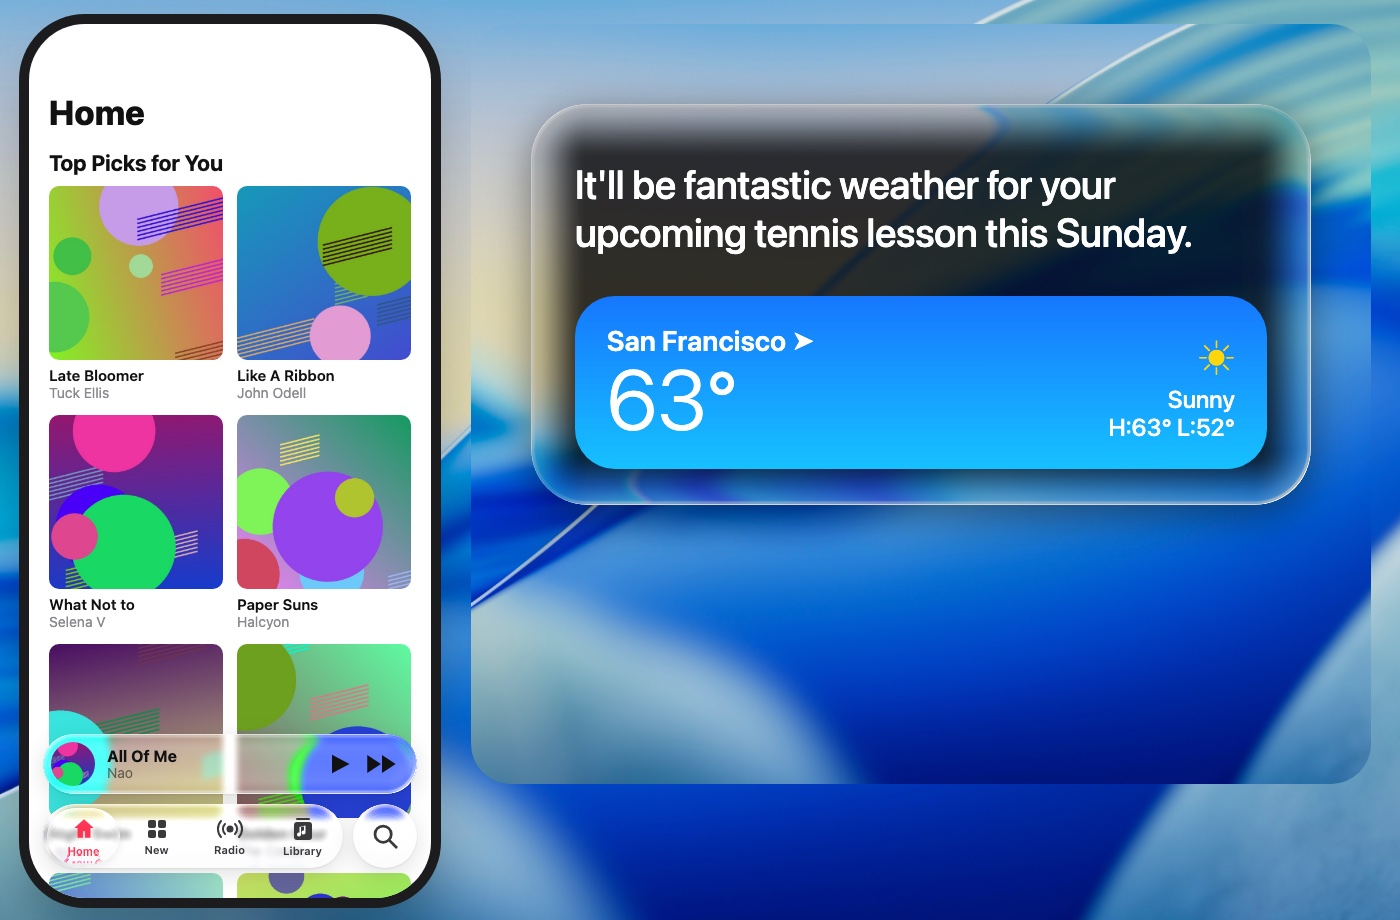
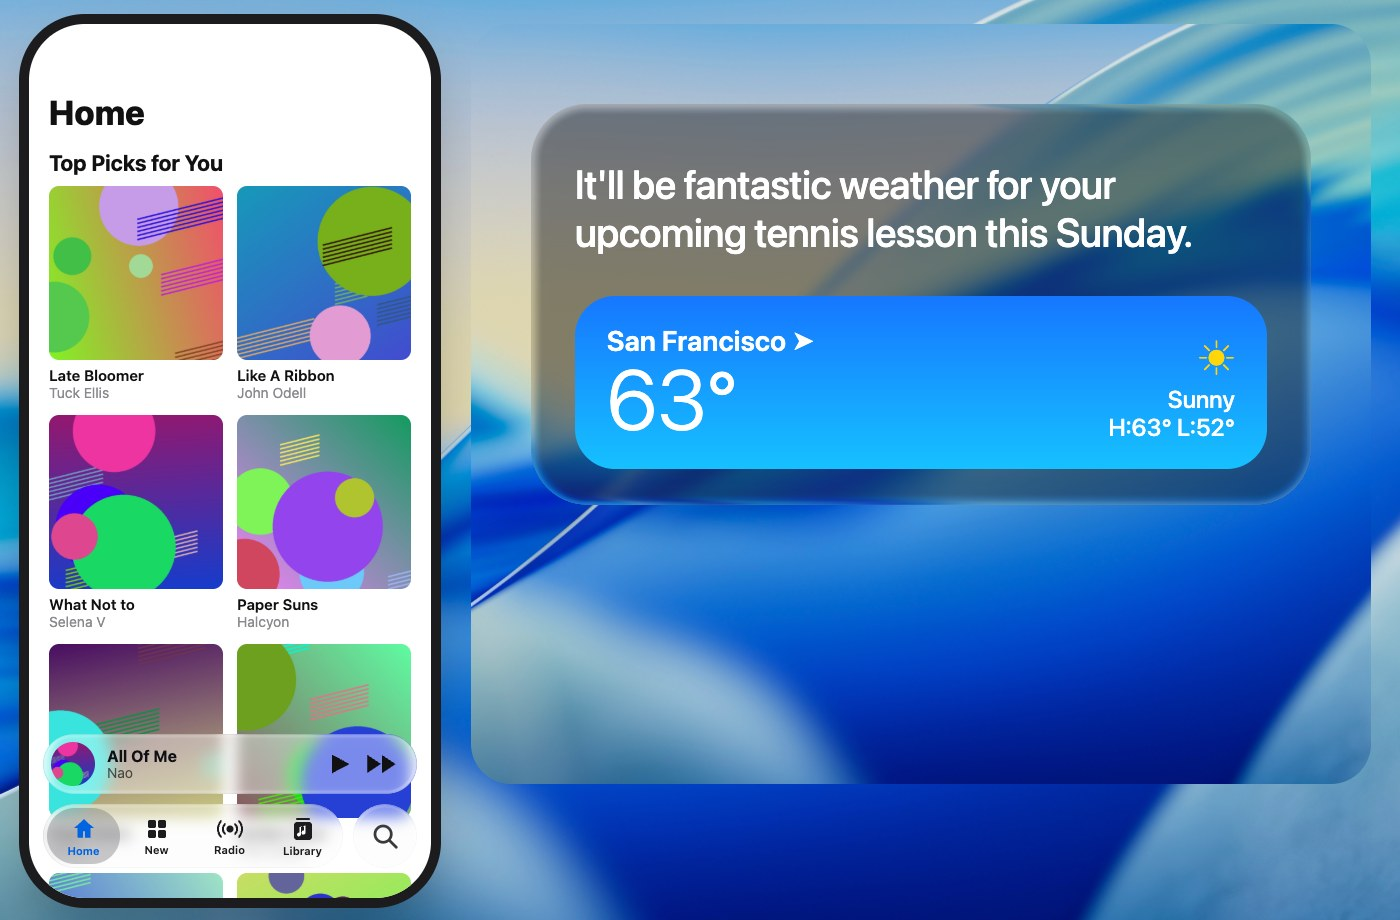
docs: bring the readme and its images up to date
Describes regular and clear, the tab bar and the bar material, corrects the
size and examples, and replaces the screenshots with renders of the current
demo.

Changed region(s): [[0.3686, 0.0913, 0.9521, 0.5783], [0.0307, 0.7913, 0.3071, 0.9435]]

diff --git a/README.md b/README.md
@@ -35,7 +35,8 @@ catches a bright edge highlight.
 This library models that rim as an actual lens. It traces light through
 it with **Snell's law**, writes the result into an SVG displacement map
 sized to each element, and lets the browser apply it in its normal
-`backdrop-filter` pass.
+`backdrop-filter` pass. `variant="clear"` shows that lens at full strength;
+the default `regular` is frosted like Apple's system glass.
 
 ```bash
 npm install @vepando/liquid-glass-react
@@ -51,7 +52,7 @@ import { LiquidGlass } from "@vepando/liquid-glass-react"
 ```
 
 <p align="center">
-  <img src="docs/showcase.jpg" alt="Music app tab bar with sliding glass droplet and mini player; dark Siri-style glass panel" width="100%" />
+  <img src="docs/showcase.jpg" alt="Music app with a draggable glass tab bar and mini player; frosted weather panel" width="100%" />
 </p>
 
 ## Contents
@@ -82,20 +83,22 @@ import { LiquidGlass } from "@vepando/liquid-glass-react"
   the refracted backdrop shows bright at the edge, as in Apple's glass.
 - **Angle-dependent specular.** A crisp edge line plus a soft inner glow
   that follows a configurable light direction.
-- **Chromatic dispersion.** R, G and B bend by slightly different amounts
-  for a faint colour fringe on high-contrast edges.
+- **Regular and clear.** `regular` is frosted and matched against macOS's
+  system glass. `clear` is see-through and bends what is behind it.
+- **Chromatic dispersion.** On `clear`, R, G and B bend by slightly different
+  amounts for a faint colour fringe on high-contrast edges.
 - **Touch interaction.** `interactive` adds a springy press-to-grow and a
   glow from the touch point.
-- **Light and dark tints**, or any CSS colour.
+- **Light and dark.** Glass follows a `dark` class or `data-theme="dark"`,
+  and `tint` takes any CSS colour.
 - **SSR safe.** A frosted fallback renders on the server and upgrades on
   mount, without hydration mismatches.
 - **Cached maps.** Identical controls share maps. New sizes and optical
   settings generate maps synchronously; large panels and continuous
   resizing can be expensive. SVG backdrop rendering still costs work
-  every frame, especially with dispersion. Many-element rendering has
-  not been benchmarked across browsers and devices.
+  every frame, especially with dispersion.
 - **Zero dependencies.** React 18+ is the only peer dependency. ESM +
-  CJS + TypeScript types, about 5 KB gzipped.
+  CJS + TypeScript types, about 8 KB gzipped including the CSS.
 
 ## Install
 
@@ -155,7 +158,7 @@ Tailwind; equivalent CSS works too.
 **Dark sheet / panel**
 
 ```tsx
-<LiquidGlass radius={56} tint="dark" className="p-12">
+<LiquidGlass radius={56} className="dark p-12">
   <p className="text-white text-4xl">It'll be fantastic weather…</p>
 </LiquidGlass>
 ```
@@ -168,26 +171,27 @@ glass as a *sibling* positioned over the outer one, not as a child (see
 <div className="relative">
   <LiquidGlass radius={999} className="h-16">{tabs}</LiquidGlass>
   <div className="absolute inset-1 pointer-events-none">
-    <LiquidGlass radius={999} blur={0} tint="rgba(255,255,255,.05)"
+    <LiquidGlass variant="clear" radius={999}
       style={{ width: "25%", height: "100%", transform: `translateX(${active * 100}%)` }} />
   </div>
 </div>
 ```
 
-A full working version, including the stretch while it slides, is in
-[`demo/src/Scenes.tsx`](demo/src/Scenes.tsx).
+For a complete draggable version, use [`GlassTabBar`](#ui-components).
 
 ## UI components
 
-Ready-made, themeable components for real apps: **Button, Tabs, Dialog and
-Card**. They are built on [Base UI](https://base-ui.com) for keyboard and
-screen reader behaviour, and installed as source code through the
-[shadcn](https://ui.shadcn.com) CLI, so they live in your project and you
-(or your coding agent) can change them.
+Ready-made, themeable components for real apps: **Button, Tabs, Tab Bar,
+Dialog and Card**. Button, Tabs and Dialog use
+[Base UI](https://base-ui.com) for keyboard and screen reader behaviour. All
+of them install as source code through the [shadcn](https://ui.shadcn.com)
+CLI, so they live in your project and you (or your coding agent) can change
+them.
 
 ```bash
 npx shadcn@latest add https://leonardseo.github.io/liquid-glass-react/r/glass-button.json
 npx shadcn@latest add https://leonardseo.github.io/liquid-glass-react/r/glass-tabs.json
+npx shadcn@latest add https://leonardseo.github.io/liquid-glass-react/r/glass-tab-bar.json
 npx shadcn@latest add https://leonardseo.github.io/liquid-glass-react/r/glass-dialog.json
 npx shadcn@latest add https://leonardseo.github.io/liquid-glass-react/r/glass-card.json
 ```
@@ -216,7 +220,8 @@ Materials follow Apple's glass styles:
 
 | Material | Used for | Character |
 | --- | --- | --- |
-| `regular` | Default for every component | Frosted and bright, for controls and surfaces with text |
+| `regular` | Default for buttons, tabs, cards and dialogs | Frosted and bright, for controls and surfaces with text |
+| `bar` | Default for `GlassTabBar` | Light frost, the backdrop stays recognisable |
 | `clear` | Glass over rich media | See-through, with a refracting rim. Check that text on it stays legible |
 
 **One layer of glass per stack.** A `backdrop-filter` hides the page from
@@ -226,8 +231,7 @@ inside them switches to inset glass, which keeps the rim and tint but has no
 backdrop of its own. For the same reason the track of `GlassTabsList` is not
 glass, so the indicator moving over it can refract.
 
-**Performance.** Maps are built
-once per distinct size and shared, so a page of uniform controls is cheap.
+**Performance.** Maps are built once per distinct size and shared, so a page of uniform controls is cheap.
 Fifty *different* sizes at once take noticeably longer on slow devices (about
 225 ms under 4× CPU throttling, in one block on first render).
 
@@ -391,9 +395,9 @@ npm run dev
 | `/?page=lab` | Squircle, orb and pill lenses; draggable with mouse, touch or arrow keys; live backdrop, style, tint, interactive and corner radius controls |
 | `/?page=showcase` | Interactive artwork gallery, music interface and weather panel |
 | `/?page=classic` | The original Music and Siri collection |
-| `/?scene=music` | Apple Music style tab bar with sliding droplet, mini player and search button over album art |
+| `/?scene=music` | Apple Music style app with a draggable tab bar, mini player and search button over album art |
 | `/?scene=siri` | Dark glass panel over the macOS Tahoe wallpaper |
-| `/?scene=playground` | Draggable lenses over text, stripes and a grid |
+| `/?scene=playground` | Draggable glass over text on the wallpaper |
 | `/?scene=banner` | The header image of this README |
 | `/?scene=original` | The v1 technique, for comparison |
 
@@ -405,7 +409,7 @@ The demo imports `@vepando/liquid-glass-react` by name; Vite aliases that name t
 <table>
   <tr>
     <th>v1: one stretched static map, milky tint</th>
-    <th>v2: physical, per-element, clear rim</th>
+    <th>Now: physical, per-element maps</th>
   </tr>
   <tr>
     <td width="50%"><img src="docs/before-after.jpg" alt="Top: v1 original, bottom: v2" /></td>
@@ -426,7 +430,7 @@ troubleshooting table for the common failure modes.
 ## Repository layout
 
 ```
-src/                  the package: LiquidGlass.tsx · useLiquidGlass.tsx · maps.ts · liquid-glass.css · index.ts
+src/                  the package: components, hook, variants, optics maps and liquid-glass.css
 registry/glass/       source of the UI components; registry.json lists them for the shadcn CLI
 dist/                 build output (npm run build), published to npm
 demo/                 Vite + React showcase
@@ -454,6 +458,7 @@ npm run build      # tsup → dist/ (ESM, CJS, .d.ts, style.css)
 npm run typecheck
 npm test           # geometry and component tests; Node 22.18+ or 24+
 npm run registry:build  # shadcn registry → demo/public/r
+npm run skill:sync      # copies src/ into the skill; tests fail if it is stale
 cd demo && npm install && npm run dev
 ```
 
